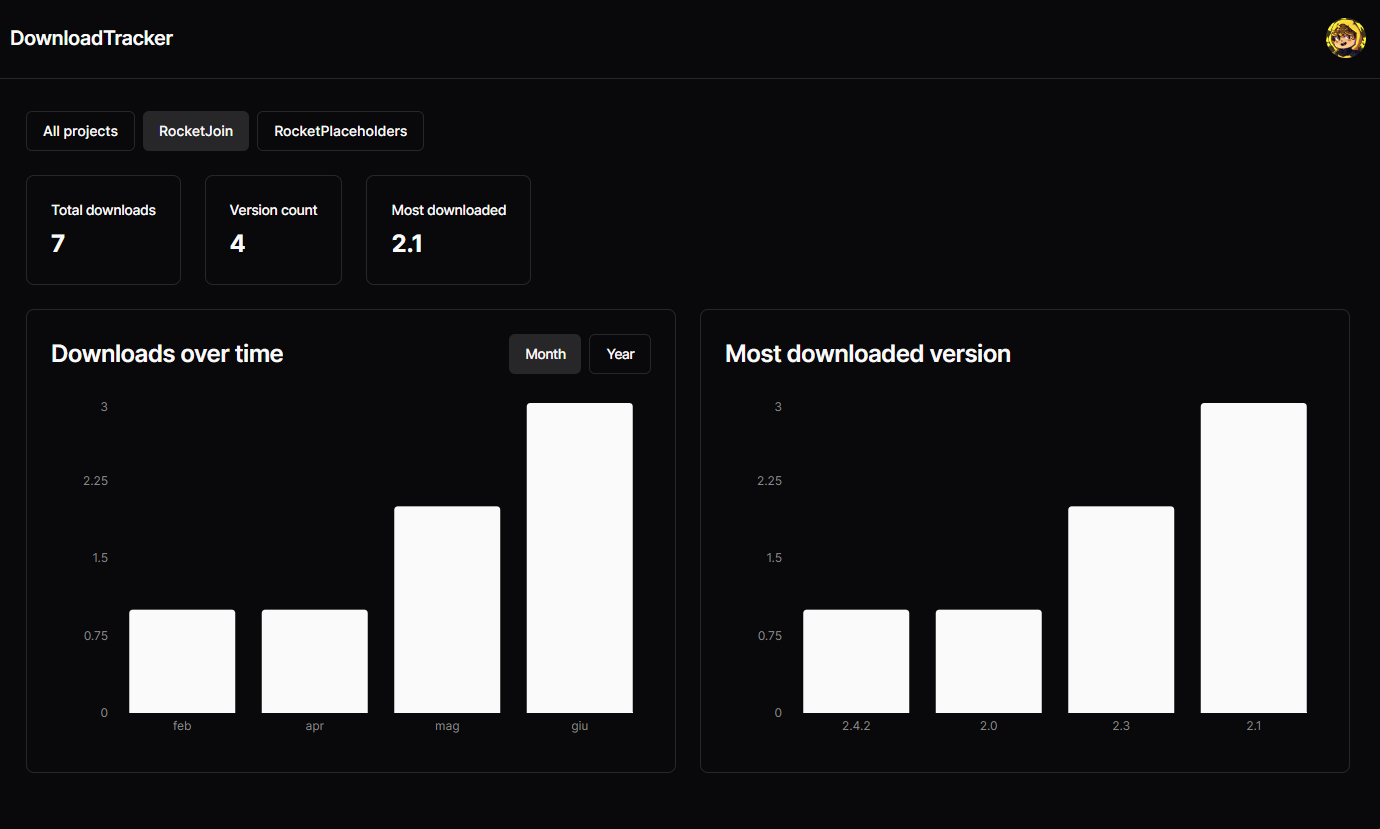
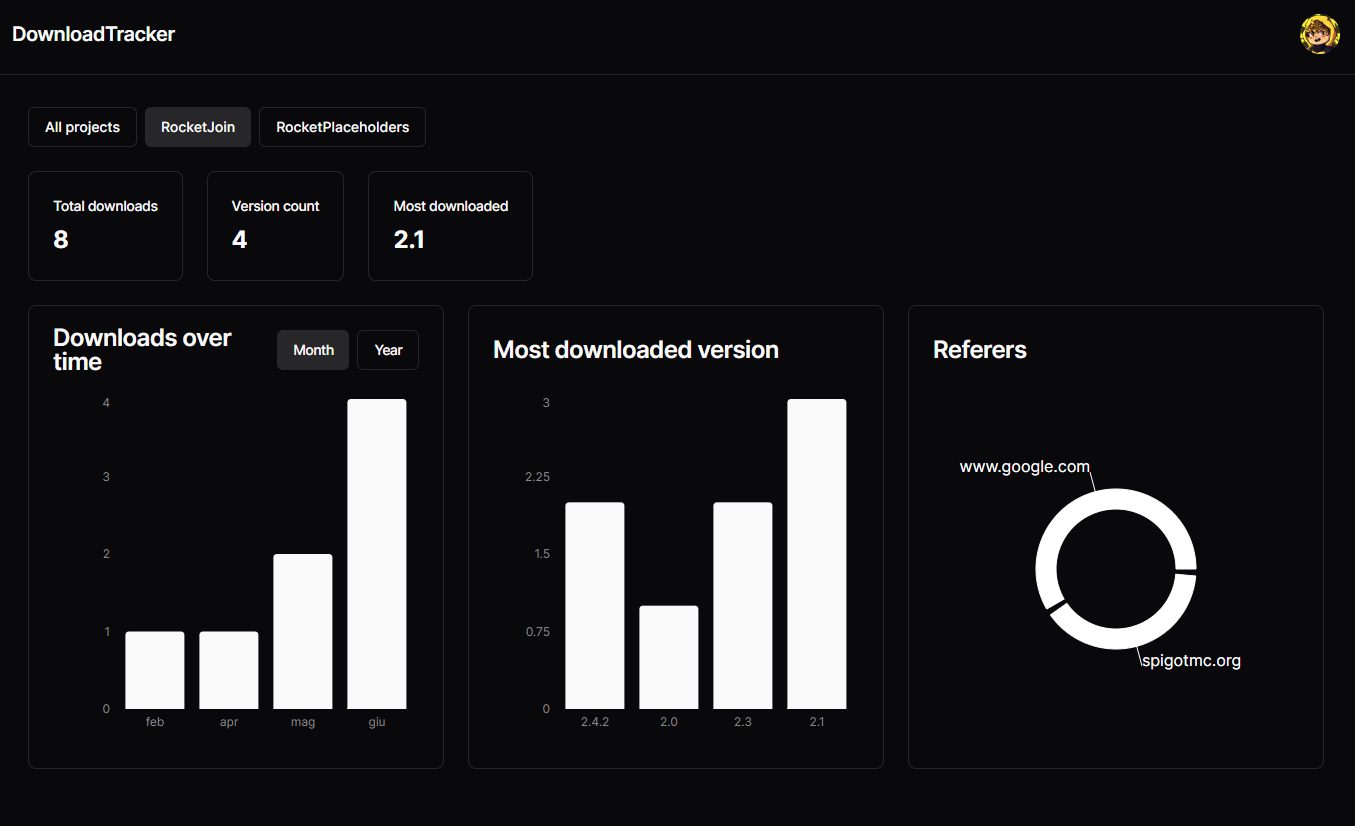
Finished referer frontend

diff --git a/src/components/PieChart.tsx b/src/components/PieChart.tsx
@@ -1,6 +1,7 @@
 "use client";
 
-import { Bar, BarChart, ResponsiveContainer, XAxis, YAxis } from "recharts";
+import type { ReactNode } from "react";
+import { Cell, Pie, PieChart, ResponsiveContainer, Tooltip } from "recharts";
 import { Card, CardContent, CardHeader, CardTitle } from "./ui/card";
 
 export default function Chart({
@@ -10,7 +11,7 @@ export default function Chart({
 }: {
   data: { name: string; total: number }[];
   title: string;
-  children?: React.ReactNode;
+  children?: ReactNode;
 }) {
   return (
     <Card className="w-1/2 flex flex-col justify-end">
@@ -21,27 +22,22 @@ export default function Chart({
       </CardHeader>
       <CardContent className="mt-auto">
         <ResponsiveContainer width="100%" height={350}>
-          <BarChart data={data}>
-            <XAxis
-              dataKey="name"
-              stroke="#888888"
-              fontSize={12}
-              tickLine={false}
-              axisLine={false}
-            />
-            <YAxis
-              stroke="#888888"
-              fontSize={12}
-              tickLine={false}
-              axisLine={false}
-            />
-            <Bar
+          <PieChart>
+            <Pie
+              data={data}
+              innerRadius={60}
+              outerRadius={80}
+              fill="white"
+              paddingAngle={5}
               dataKey="total"
-              fill="currentColor"
-              radius={[4, 4, 0, 0]}
-              className="fill-primary"
-            />
-          </BarChart>
+              label={({ name }) => name}
+            >
+              {data.map((entry) => (
+                <Cell key={entry.name} fill="white" />
+              ))}
+            </Pie>
+            <Tooltip />
+          </PieChart>
         </ResponsiveContainer>
       </CardContent>
     </Card>

diff --git a/src/components/BarChart.tsx b/src/components/BarChart.tsx
@@ -1,0 +1,50 @@
+"use client";
+
+import type { ReactNode } from "react";
+import { Bar, BarChart, ResponsiveContainer, XAxis, YAxis } from "recharts";
+import { Card, CardContent, CardHeader, CardTitle } from "./ui/card";
+
+export default function Chart({
+  data,
+  title,
+  children,
+}: {
+  data: { name: string; total: number }[];
+  title: string;
+  children?: ReactNode;
+}) {
+  return (
+    <Card className="w-1/2 flex flex-col justify-end">
+      <CardHeader>
+        <CardTitle className="flex items-center justify-between h-10">
+          <p>{title}</p> {children}
+        </CardTitle>
+      </CardHeader>
+      <CardContent className="mt-auto">
+        <ResponsiveContainer width="100%" height={350}>
+          <BarChart data={data}>
+            <XAxis
+              dataKey="name"
+              stroke="#888888"
+              fontSize={12}
+              tickLine={false}
+              axisLine={false}
+            />
+            <YAxis
+              stroke="#888888"
+              fontSize={12}
+              tickLine={false}
+              axisLine={false}
+            />
+            <Bar
+              dataKey="total"
+              fill="currentColor"
+              radius={[4, 4, 0, 0]}
+              className="fill-primary"
+            />
+          </BarChart>
+        </ResponsiveContainer>
+      </CardContent>
+    </Card>
+  );
+}

diff --git a/src/components/TimeChart.tsx b/src/components/TimeChart.tsx
@@ -1,8 +1,8 @@
 "use client";
 
 import type { Database } from "@/types/supabase";
-import Chart from "./Chart";
 import { useState } from "react";
+import BarChart from "./BarChart";
 import { Button } from "./ui/button";
 
 export default function TimeChart({
@@ -32,7 +32,7 @@ export default function TimeChart({
     }, [] as { name: string; total: number }[]);
 
   return (
-    <Chart title="Downloads over time" data={data}>
+    <BarChart title="Downloads over time" data={data}>
       <div className="flex gap-2">
         <Button
           variant={scale === "month" ? "secondary" : "outline"}
@@ -47,6 +47,6 @@ export default function TimeChart({
           Year
         </Button>
       </div>
-    </Chart>
+    </BarChart>
   );
 }

diff --git a/src/app/dashboard/page.tsx b/src/app/dashboard/page.tsx
@@ -1,5 +1,6 @@
 import ProjectsChart from "@/components/ProjectsChart";
 import ProjectSelect from "@/components/ProjectSelect";
+import RefererChart from "@/components/RefererChart";
 import StatsCards from "@/components/StatsCards";
 import TimeChart from "@/components/TimeChart";
 import VersionsChart from "@/components/VersionsChart";
@@ -38,6 +39,7 @@ export default async function Page({
         <TimeChart downloads={filteredDownloads} active={active} />
         {active === "*" && <ProjectsChart downloads={filteredDownloads} />}
         {active !== "*" && <VersionsChart downloads={filteredDownloads} />}
+        <RefererChart downloads={filteredDownloads} />
       </div>
     </div>
   );

diff --git a/src/components/RefererChart.tsx b/src/components/RefererChart.tsx
@@ -1,0 +1,25 @@
+import type { Database } from "@/types/supabase";
+import PieChart from "./PieChart";
+
+export default function RefererChart({
+  downloads,
+}: {
+  downloads: Database["public"]["Tables"]["downloads"]["Row"][];
+}) {
+  const data = downloads.reduce((acc, { referer }) => {
+    if (referer && !acc.includes(referer)) {
+      acc.push(referer);
+    }
+    return acc;
+  }, [] as string[]);
+
+  return (
+    <PieChart
+      title="Referers"
+      data={data.map((name) => ({
+        name,
+        total: downloads.filter((download) => download.referer === name).length,
+      }))}
+    />
+  );
+}

diff --git a/src/components/ProjectsChart.tsx b/src/components/ProjectsChart.tsx
@@ -1,5 +1,5 @@
 import type { Database } from "@/types/supabase";
-import Chart from "./Chart";
+import BarChart from "./BarChart";
 
 export default function ProjectsChart({
   downloads,
@@ -14,7 +14,7 @@ export default function ProjectsChart({
   }, [] as string[]);
 
   return (
-    <Chart
+    <BarChart
       title="Most downloaded project"
       data={data.map((name) => ({
         name,

diff --git a/src/components/VersionsChart.tsx b/src/components/VersionsChart.tsx
@@ -1,5 +1,5 @@
 import type { Database } from "@/types/supabase";
-import Chart from "./Chart";
+import BarChart from "./BarChart";
 
 export default function VersionsChart({
   downloads,
@@ -14,7 +14,7 @@ export default function VersionsChart({
   }, [] as string[]);
 
   return (
-    <Chart
+    <BarChart
       title="Most downloaded version"
       data={data.map((name) => ({
         name,

diff --git a/src/cli/cli.ts b/src/cli/cli.ts
@@ -9,7 +9,7 @@ const supabase = createAdminClient();
 program
   .name("DownloadTracker CLI")
   .description("CLI to manage the DownloadTracker server")
-  .version("2.0.0");
+  .version("2.1.0");
 
 program
   .command("users:list")
